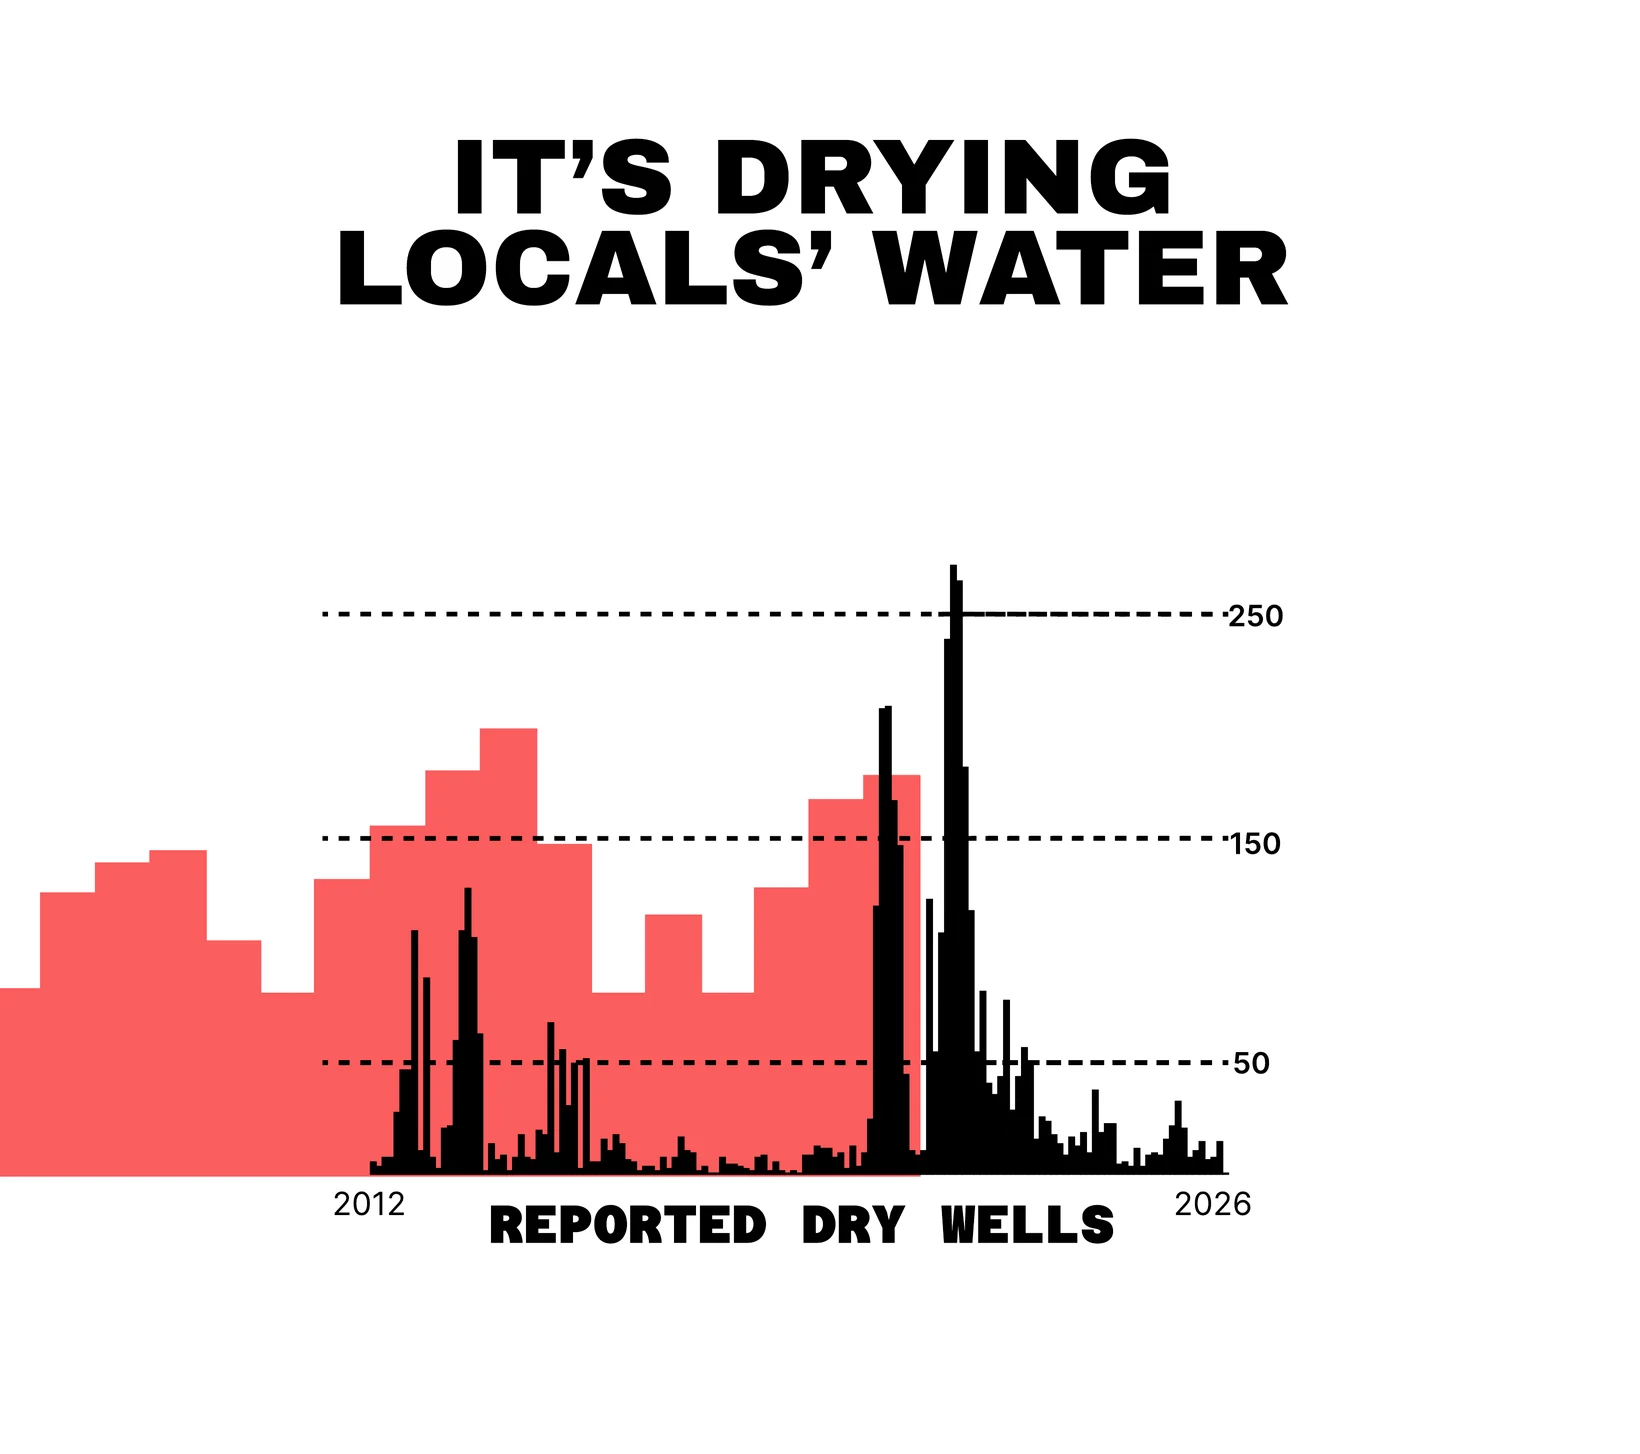
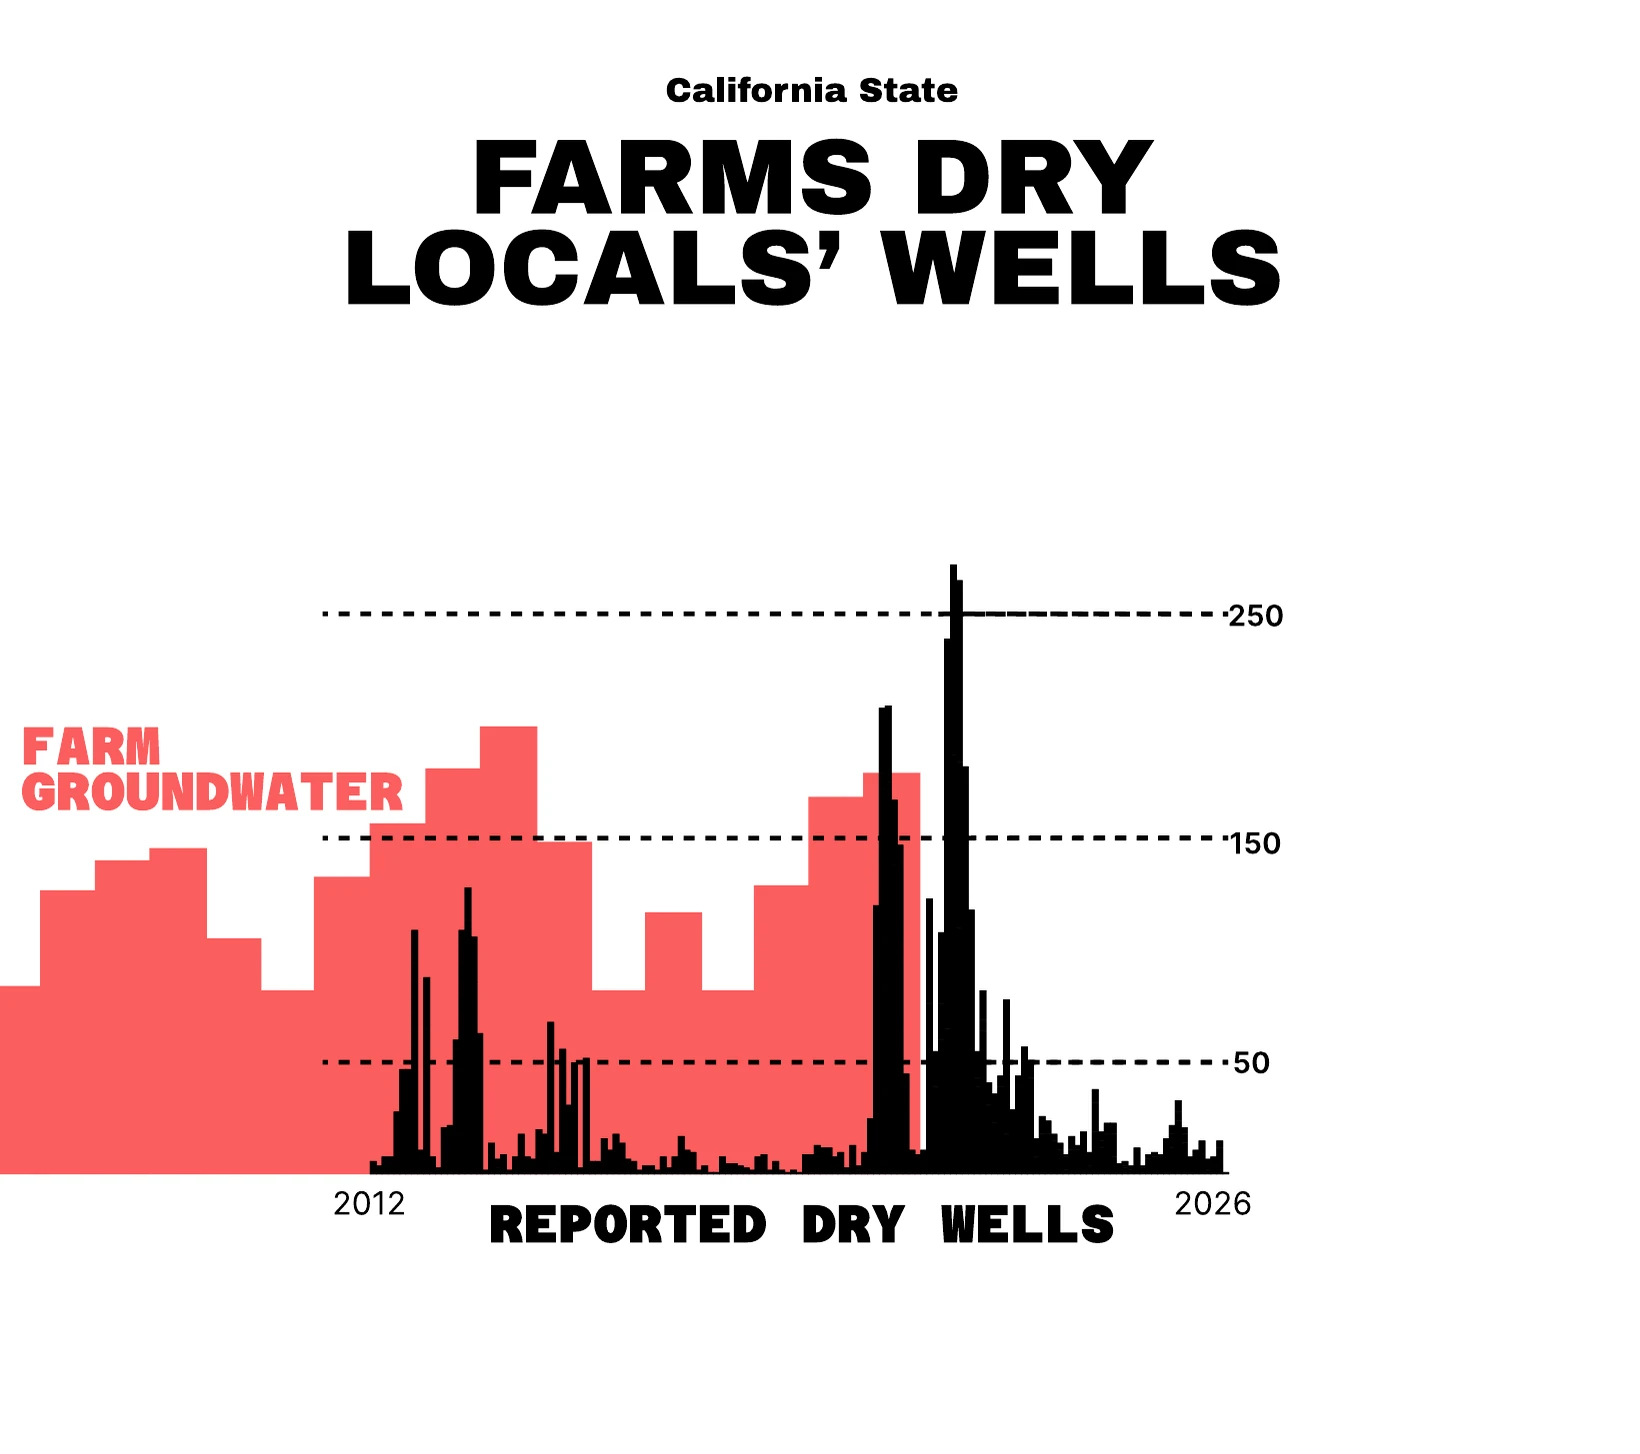
Groundwater: replace dry-wells slide image (Farms dry locals' wells) and retitle
Claude-Session: https://claude.ai/code/session_01C42tfx9Hh6vAnrYvgM8gpv

diff --git a/climate-data/california-groundwater/index.html b/climate-data/california-groundwater/index.html
@@ -152,7 +152,7 @@
 
 <script>
 (function () {
-  var P = [{"src": "/assets/groundwater/gw-01a.webp", "alt": "Chart of Californian agriculture's groundwater from 1960 to 2020: a blue block with a thin red band at the top marking what has been lost, an arrow to a note that about 202 years are left, and a note that it took a long time to fill.", "title": "Californian agriculture's groundwater", "desc": "The blue block is the Central Valley's stored groundwater; the red band is the part that is not coming back. An estimated 788 km\u00b3 remained in 2023, and satellite data show storage falling by about 3.9 km\u00b3 a year (the 2006 to 2023 trend). At that rate it lasts about 202 years from 2023, to around 2225. That is a straight-line projection of total storage, not of usable water (see the next slide), and other trend windows give roughly 200 to 245 years (see the methods). The deep layers took a very long time to fill and shallower layers cycle much faster, so there is no single fill time."}, {"src": "/assets/groundwater/gw-02.webp", "alt": "The same groundwater block shaded from light blue at the top to dark blue-grey at the bottom, with an arrow labelled less usable pointing down.", "title": "Water in the ground isn't water you can use", "desc": "This one isn't a measurement, it's the idea behind the last chart. The 202 years counts every drop stored underground, but the aquifer won't stay usable until the last one. The deeper you have to pump, the more it costs and the worse the quality tends to get. Deeper water can carry naturally occurring contaminants such as arsenic. Pollution from human activity, nitrate from fertilizer in particular, sits in the shallow layers and gets pulled further down as pumping increases. So the water that is affordable and safe to drink would run short well before the 202 years are up. The shading is there to show that idea and carries no data."}, {"src": "/assets/groundwater/gw-03.webp", "alt": "Line chart of Central Valley groundwater storage falling across six labelled droughts, with a red band showing storage that has been permanently lost.", "title": "This much is gone forever", "desc": "Pump groundwater out fast enough and the empty pockets underground can collapse on themselves. The ground sinks, which is called subsidence, and the space that used to hold water is crushed for good. A USGS study found that in California's Central Valley about 15% of the groundwater storage lost so far is permanent. That is not a fixed rule, it is what the pumping here has produced, and it is what the red band shows. Each drought speeds the loss up, and the collapsed part does not come back."}, {"src": "/assets/groundwater/gw-04.webp", "alt": "The same line chart extended into a grey panel labelled Future, probably, where a dashed line keeps falling and the permanently lost red area grows.", "title": "The same curve, projected forward", "desc": "The previous chart, extended forward. The grey panel is a projection, not observed data, which is why it is labelled 'probably'. Storage lost to compaction does not return, so each future drought adds to the red area instead of resetting it."}, {"src": "/assets/groundwater/gw-05.webp", "alt": "Stacked bars from 1960 to 2020: agriculture in red makes up almost all Central Valley groundwater use, with cities in blue as a thin band on top.", "title": "Where groundwater goes", "desc": "Agriculture accounts for the large majority of Central Valley groundwater use, roughly nine-tenths across 1960 to 2020, as simulated by the Central Valley Hydrologic Model. Cities draw the remainder."}, {"src": "/assets/groundwater/gw-06.webp", "alt": "Bar chart from 2002 to 2022 of total farm water usage (100%), with the groundwater share in red filling the lower part of each bar.", "title": "Farms are dependent on groundwater", "desc": "Groundwater is one part of agriculture's total water supply, and how much it carries changes from year to year. The dotted line is total water use; the red bars are the part pumped from underground."}, {"src": "/assets/groundwater/gw-07.webp", "alt": "The same chart with the tallest red bar labelled 70% and the drought peak marked.", "title": "Farms are dependent on groundwater, drought peak marked", "desc": "The same chart, with the peak marked. At the drought peak, groundwater supplies about 70% of agriculture's total water. Surface water shortfalls are largely made up by pumping deeper into aquifers, accelerating depletion exactly when conditions are most stressed."}, {"src": "/assets/groundwater/gw-08.webp", "alt": "Bar chart of reported dry wells per month from 2012 to 2026 in black, with smaller spikes around 2014 to 2016 and two much larger spikes in 2021 and 2022, over the red agricultural groundwater bars.", "title": "It's drying locals' water", "desc": "Reported dry wells spike in droughts. The black bars count reports to the State's dry-well reporting system by the month the problem began: smaller peaks around 2014 to 2016, then the largest in 2021 and 2022, topping out at 283 reports in July 2021. The spikes line up with the spikes in agricultural groundwater use (the red bars). That suggests wells don't go dry from the drought alone: a drought pushes agriculture to pump more groundwater, and that extra pumping is what pulls the water table below household wells. Reporting is voluntary, so these counts are a floor."}, {"src": "/assets/groundwater/gw-09.webp", "alt": "Stacked bars of reported dry wells coloured by outcome (resolved in green, interim solution in blue, outage in red), with the 2012 to 2016 drought boxed and a note that the count is reported and a strong underestimate.", "title": "One drought, at least 2,600 households short of water", "desc": "The boxed years mark the 2012 to 2016 drought, arguably one of the worst California has seen. In that single drought, at least 2,600 households that depend on wells were left short of water (Public Policy Institute of California): no reliable water for cooking, showering or any other daily need. Colours show where each report stands now: outage (red), interim solution (blue) or resolved (green). Reporting is voluntary, so counts are a floor."}, {"src": "/assets/groundwater/gw-10.webp", "alt": "Three rows of dry-well reports by outcome, each with a cost: resolved, about $54,000 per well, state and community; interim solution, state funded, $55 to $1,100 a month; unresolved, fend for yourself, $100 to $600 a month.", "title": "What dry wells cost whom", "desc": "Households with a dry well end up in one of three places, and each costs someone different. Some get a replacement well or a connection, about $54,000 per well on average, usually paid by the state. Some get an interim solution, bottled water or a tank with hauled water, at about $55 to $1,100 a month to the state. The rest are left to fend for themselves, paying for bottled and trucked water and laundromats out of their own pocket, about $100 to $600 a month based on documented spending from 2015 to 2024. The counts are self-reported, so they likely undercount."}, {"src": "/assets/groundwater/gw-11.webp", "alt": "Single bar of 2020 California agricultural water use: almonds and pistachios 32.2%, other perennial tree crops 24.6%, other agricultural products 43.2%, with part of the bar marked as exported.", "title": "Where the water went in 2020", "desc": "Of the irrigation water applied to California crops in 2020, 32.2% went to almonds and pistachios and 24.6% to other perennials. These are long-lived trees that need water every year, droughts included, so farms can't simply stop irrigating when water gets scarce. Other crops took the remaining 43.2%. The bracket marks the part going to exported crops; it is indicative, not a measured share."}, {"src": "/assets/groundwater/gw-12.webp", "alt": "Bar comparing almond revenue of $4.95 billion and pistachio revenue of $2.93 billion, both marked exported, against a total of $61 billion a year in farm revenue. The exported crops are labelled untaxed and the rest low taxes.", "title": "Farm revenue", "desc": "Almond and pistachio revenue set against California's total agricultural production value of about $61 billion a year (the 2024 figure was reported at $61.2 billion). That is a statewide number, not a Central Valley one. Crops sold abroad carry no export tax, because the US Constitution bars taxing goods in the course of export. Farmland also gets tax breaks: land under California's Williamson Act, for example, is assessed on its farming value rather than its market value."}];
+  var P = [{"src": "/assets/groundwater/gw-01a.webp", "alt": "Chart of Californian agriculture's groundwater from 1960 to 2020: a blue block with a thin red band at the top marking what has been lost, an arrow to a note that about 202 years are left, and a note that it took a long time to fill.", "title": "Californian agriculture's groundwater", "desc": "The blue block is the Central Valley's stored groundwater; the red band is the part that is not coming back. An estimated 788 km\u00b3 remained in 2023, and satellite data show storage falling by about 3.9 km\u00b3 a year (the 2006 to 2023 trend). At that rate it lasts about 202 years from 2023, to around 2225. That is a straight-line projection of total storage, not of usable water (see the next slide), and other trend windows give roughly 200 to 245 years (see the methods). The deep layers took a very long time to fill and shallower layers cycle much faster, so there is no single fill time."}, {"src": "/assets/groundwater/gw-02.webp", "alt": "The same groundwater block shaded from light blue at the top to dark blue-grey at the bottom, with an arrow labelled less usable pointing down.", "title": "Water in the ground isn't water you can use", "desc": "This one isn't a measurement, it's the idea behind the last chart. The 202 years counts every drop stored underground, but the aquifer won't stay usable until the last one. The deeper you have to pump, the more it costs and the worse the quality tends to get. Deeper water can carry naturally occurring contaminants such as arsenic. Pollution from human activity, nitrate from fertilizer in particular, sits in the shallow layers and gets pulled further down as pumping increases. So the water that is affordable and safe to drink would run short well before the 202 years are up. The shading is there to show that idea and carries no data."}, {"src": "/assets/groundwater/gw-03.webp", "alt": "Line chart of Central Valley groundwater storage falling across six labelled droughts, with a red band showing storage that has been permanently lost.", "title": "This much is gone forever", "desc": "Pump groundwater out fast enough and the empty pockets underground can collapse on themselves. The ground sinks, which is called subsidence, and the space that used to hold water is crushed for good. A USGS study found that in California's Central Valley about 15% of the groundwater storage lost so far is permanent. That is not a fixed rule, it is what the pumping here has produced, and it is what the red band shows. Each drought speeds the loss up, and the collapsed part does not come back."}, {"src": "/assets/groundwater/gw-04.webp", "alt": "The same line chart extended into a grey panel labelled Future, probably, where a dashed line keeps falling and the permanently lost red area grows.", "title": "The same curve, projected forward", "desc": "The previous chart, extended forward. The grey panel is a projection, not observed data, which is why it is labelled 'probably'. Storage lost to compaction does not return, so each future drought adds to the red area instead of resetting it."}, {"src": "/assets/groundwater/gw-05.webp", "alt": "Stacked bars from 1960 to 2020: agriculture in red makes up almost all Central Valley groundwater use, with cities in blue as a thin band on top.", "title": "Where groundwater goes", "desc": "Agriculture accounts for the large majority of Central Valley groundwater use, roughly nine-tenths across 1960 to 2020, as simulated by the Central Valley Hydrologic Model. Cities draw the remainder."}, {"src": "/assets/groundwater/gw-06.webp", "alt": "Bar chart from 2002 to 2022 of total farm water usage (100%), with the groundwater share in red filling the lower part of each bar.", "title": "Farms are dependent on groundwater", "desc": "Groundwater is one part of agriculture's total water supply, and how much it carries changes from year to year. The dotted line is total water use; the red bars are the part pumped from underground."}, {"src": "/assets/groundwater/gw-07.webp", "alt": "The same chart with the tallest red bar labelled 70% and the drought peak marked.", "title": "Farms are dependent on groundwater, drought peak marked", "desc": "The same chart, with the peak marked. At the drought peak, groundwater supplies about 70% of agriculture's total water. Surface water shortfalls are largely made up by pumping deeper into aquifers, accelerating depletion exactly when conditions are most stressed."}, {"src": "/assets/groundwater/gw-08.webp", "alt": "Bar chart of reported dry wells per month from 2012 to 2026 in black, with smaller spikes around 2014 to 2016 and two much larger spikes in 2021 and 2022, over red bars of farm groundwater use. Titled Farms dry locals' wells.", "title": "Farms dry locals' wells", "desc": "Reported dry wells spike in droughts. The black bars count reports to the State's dry-well reporting system by the month the problem began: smaller peaks around 2014 to 2016, then the largest in 2021 and 2022, topping out at 283 reports in July 2021. The spikes line up with the spikes in agricultural groundwater use (the red bars). That suggests wells don't go dry from the drought alone: a drought pushes agriculture to pump more groundwater, and that extra pumping is what pulls the water table below household wells. Reporting is voluntary, so these counts are a floor."}, {"src": "/assets/groundwater/gw-09.webp", "alt": "Stacked bars of reported dry wells coloured by outcome (resolved in green, interim solution in blue, outage in red), with the 2012 to 2016 drought boxed and a note that the count is reported and a strong underestimate.", "title": "One drought, at least 2,600 households short of water", "desc": "The boxed years mark the 2012 to 2016 drought, arguably one of the worst California has seen. In that single drought, at least 2,600 households that depend on wells were left short of water (Public Policy Institute of California): no reliable water for cooking, showering or any other daily need. Colours show where each report stands now: outage (red), interim solution (blue) or resolved (green). Reporting is voluntary, so counts are a floor."}, {"src": "/assets/groundwater/gw-10.webp", "alt": "Three rows of dry-well reports by outcome, each with a cost: resolved, about $54,000 per well, state and community; interim solution, state funded, $55 to $1,100 a month; unresolved, fend for yourself, $100 to $600 a month.", "title": "What dry wells cost whom", "desc": "Households with a dry well end up in one of three places, and each costs someone different. Some get a replacement well or a connection, about $54,000 per well on average, usually paid by the state. Some get an interim solution, bottled water or a tank with hauled water, at about $55 to $1,100 a month to the state. The rest are left to fend for themselves, paying for bottled and trucked water and laundromats out of their own pocket, about $100 to $600 a month based on documented spending from 2015 to 2024. The counts are self-reported, so they likely undercount."}, {"src": "/assets/groundwater/gw-11.webp", "alt": "Single bar of 2020 California agricultural water use: almonds and pistachios 32.2%, other perennial tree crops 24.6%, other agricultural products 43.2%, with part of the bar marked as exported.", "title": "Where the water went in 2020", "desc": "Of the irrigation water applied to California crops in 2020, 32.2% went to almonds and pistachios and 24.6% to other perennials. These are long-lived trees that need water every year, droughts included, so farms can't simply stop irrigating when water gets scarce. Other crops took the remaining 43.2%. The bracket marks the part going to exported crops; it is indicative, not a measured share."}, {"src": "/assets/groundwater/gw-12.webp", "alt": "Bar comparing almond revenue of $4.95 billion and pistachio revenue of $2.93 billion, both marked exported, against a total of $61 billion a year in farm revenue. The exported crops are labelled untaxed and the rest low taxes.", "title": "Farm revenue", "desc": "Almond and pistachio revenue set against California's total agricultural production value of about $61 billion a year (the 2024 figure was reported at $61.2 billion). That is a statewide number, not a Central Valley one. Crops sold abroad carry no export tax, because the US Constitution bars taxing goods in the course of export. Farmland also gets tax breaks: land under California's Williamson Act, for example, is assessed on its farming value rather than its market value."}];
   var cur = 0;
   var img = document.getElementById('v-img'), ttl = document.getElementById('v-title'),
       dsc = document.getElementById('v-desc'), cnt = document.getElementById('v-counter'),
